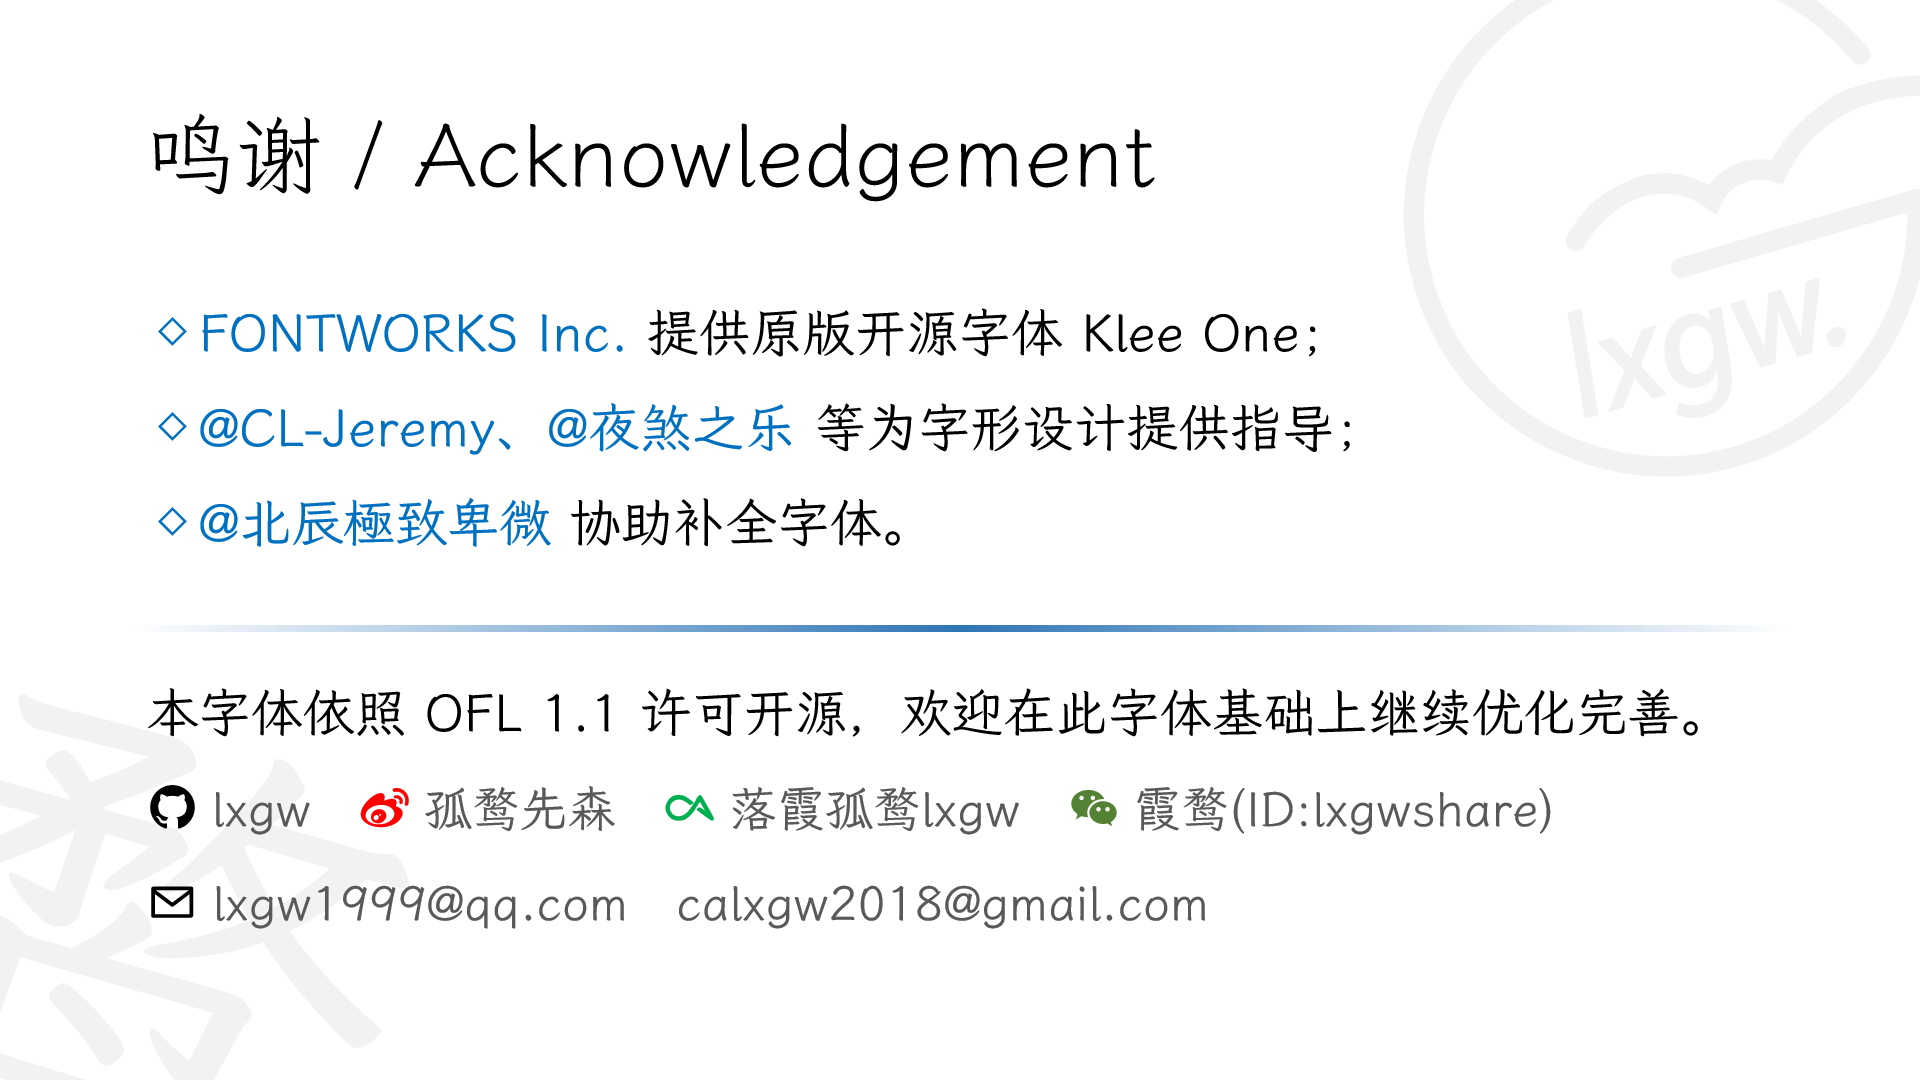
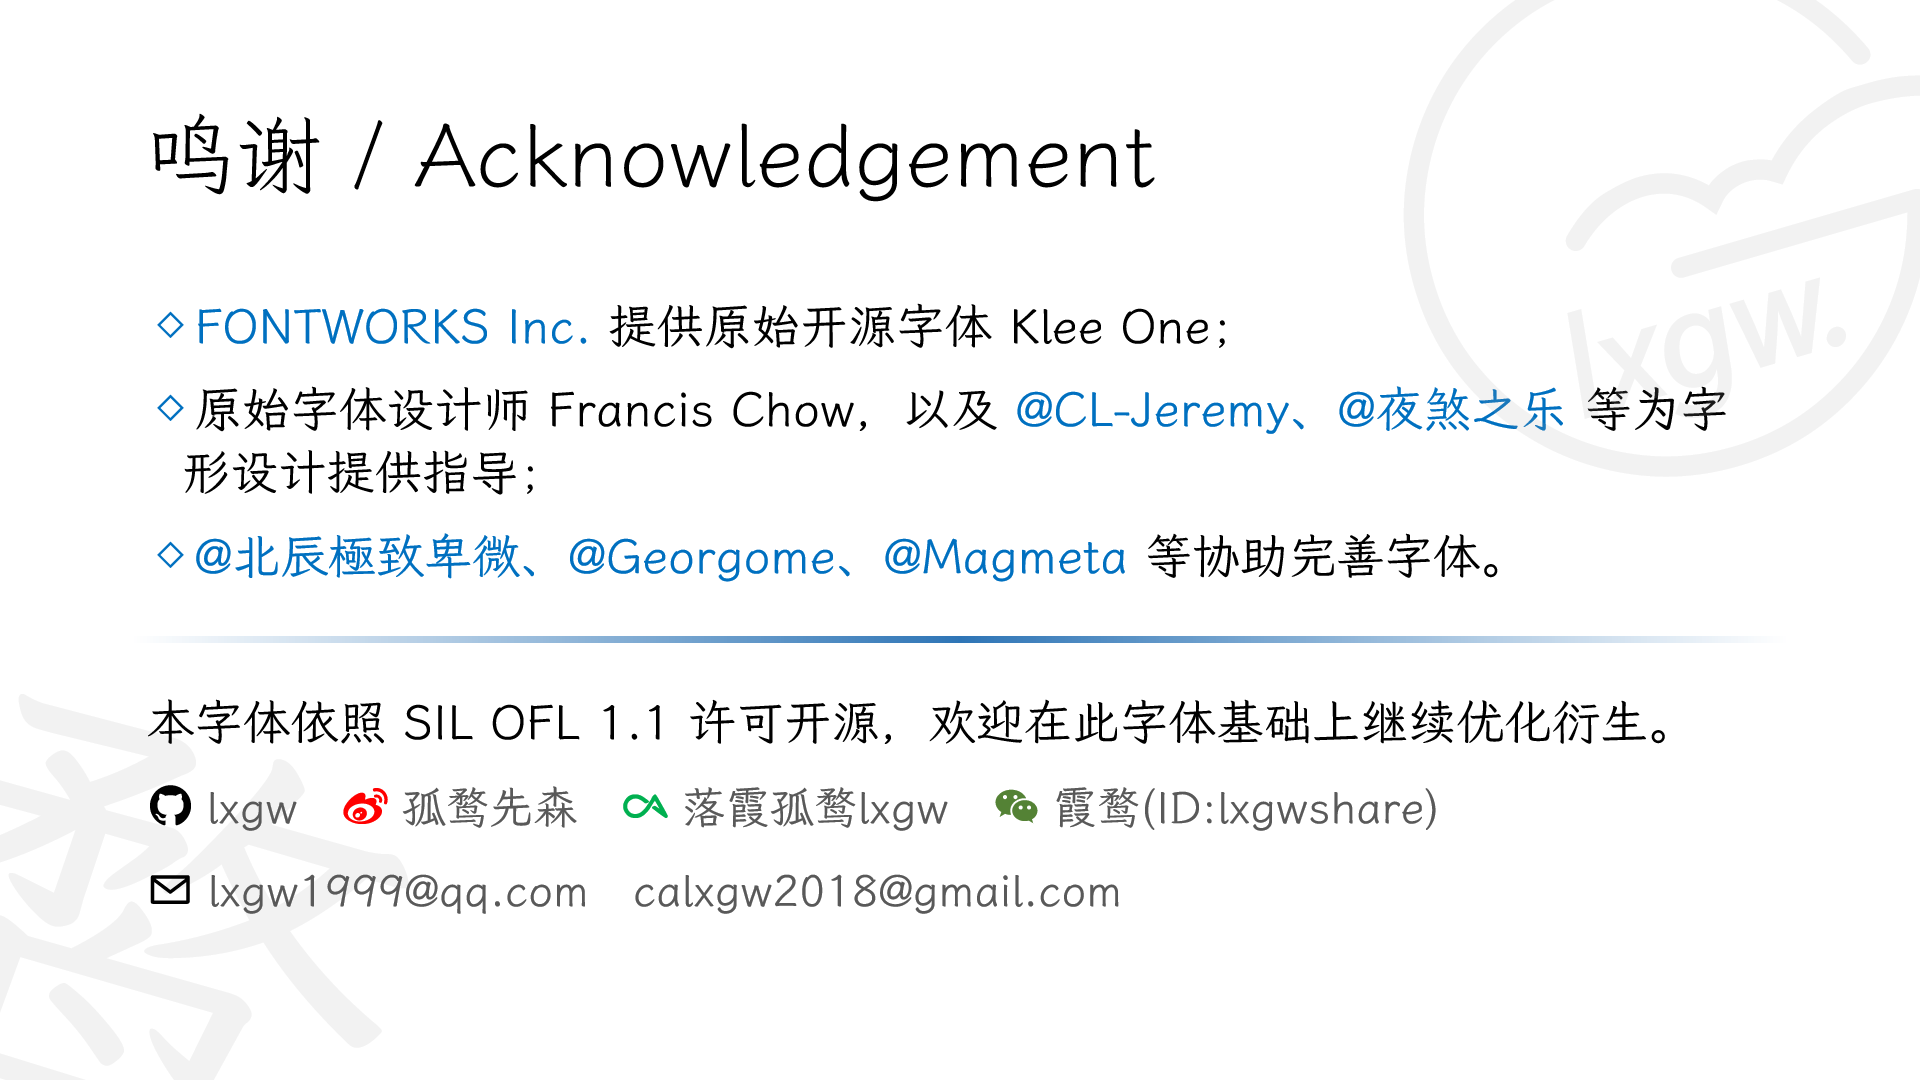
update readme and acknowledgement

diff --git a/README.md b/README.md
@@ -118,20 +118,22 @@ An open-source Chinese font derived from Fontworks' Klee One. 一款开源中文
 ### 限制
 
 - 在制作衍生字体时，字体名称不可使用原有字体的「保留名称」。本字体保留名称「霞鹜」「LXGW」，基于本字体二次衍生的字体，名称不可出现「霞鹜」或「LXGW」字样；而在没有对字体源代码进行修改的情况下，重新编译出来的字体，可以继续使用本字体的保留名称「霞鹜」「LXGW」。
-- 根据 [SIL Open Font License 1.1](https://scripts.sil.org/OFL) 许可与条件中 第一条的规定， **禁止单独出售字体文件(OTF/TTF文件)的行为。**
+- 根据 [SIL Open Font License 1.1](https://scripts.sil.org/OFL)「许可与条件」中第 1 条的规定， **禁止单独出售字体文件(OTF/TTF文件)的行为。**
 - 该字体不可在 [SIL Open Font License 1.1](https://scripts.sil.org/OFL) 以外的授权许可下发行。
 
 ## 鸣谢
 
-- [FONTWORKS 株式会社](http://fontworks.co.jp) 提供原版开源字体； [开发者 GitHub 主页](https://github.com/fontworks-fonts/)
-- [@CL-Jeremy](https://github.com/CL-Jeremy)、[@夜煞之乐](https://github.com/NightFurySL2001) 为字形设计提供指导；
-- [@北辰極致卑微](https://weibo.com/u/5327681980?) 协助补全字体。
+- [FONTWORKS 株式会社](http://fontworks.co.jp) 提供原始开源字体； [开发者 GitHub 主页](https://github.com/fontworks-fonts/)
+- 原始字体的设计师 Francis Chow，以及 [@CL-Jeremy](https://github.com/CL-Jeremy)、[@夜煞之乐](https://github.com/NightFurySL2001) 等为字形设计提供指导；
+- [@夜煞之乐](https://github.com/NightFurySL2001) 等为本项目的运营提供帮助；
+- [@北辰極致卑微](https://weibo.com/u/5327681980?)、@Georgome、[@Magmeta](https://github.com/Des-Magmeta)、[@Steve-Yuu](https://github.com/Steve-Yuu) 等协助完善字体。
 - [Iosevka](https://github.com/be5invis/Iosevka) / [Nerd-Fonts](https://github.com/ryanoasis/nerd-fonts) 提供 Powerline 符号。 
 - [zi2zi_pytorch](https://github.com/EuphoriaYan/zi2zi-pytorch)
 
 ## 由本字体衍生的字体
 
 - [澳声通拼音文楷](https://github.com/jeffreyxuan/toneoz-font-pinyin-wenkai) (需配合 [选音编辑器](http://toneoz.com/ime) 使用)
+- [计划楷 / PlanKai](https://github.com/Des-Magmeta/PlanKai)
 
 ## 其它项目
 
